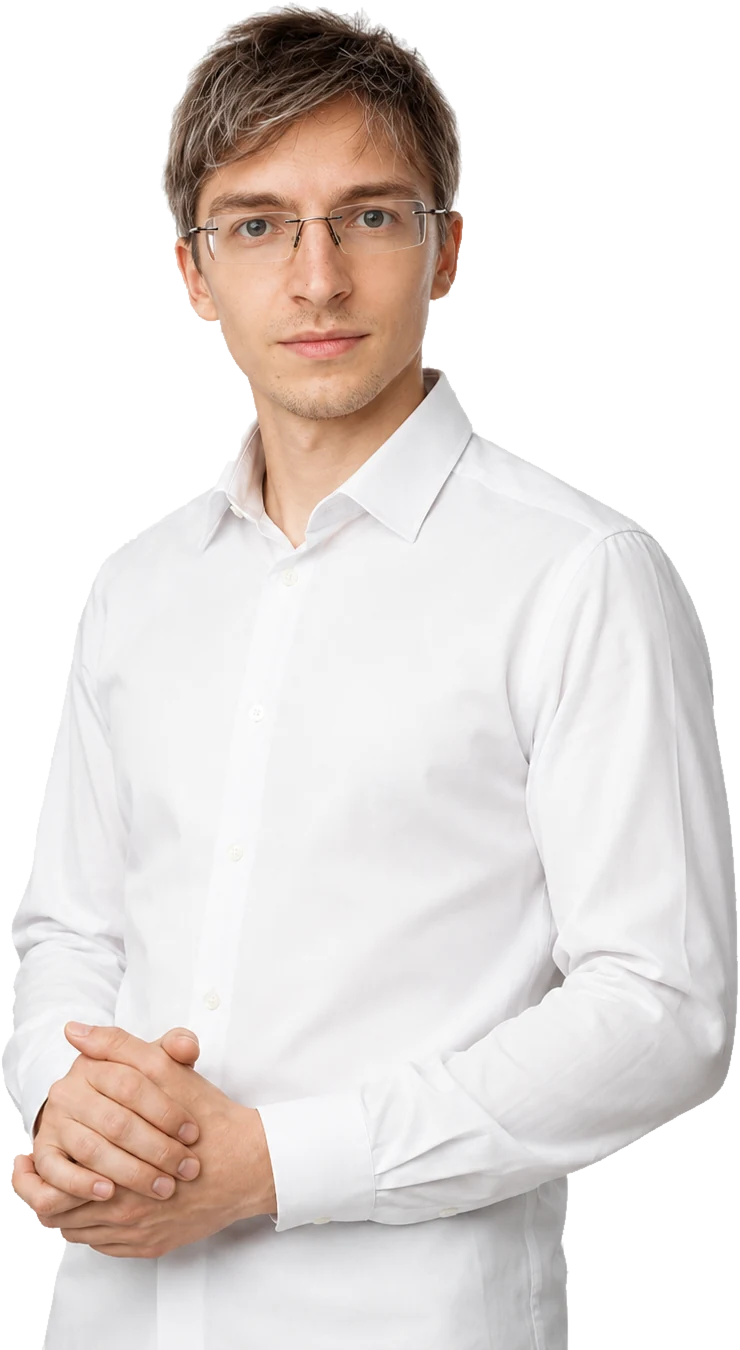
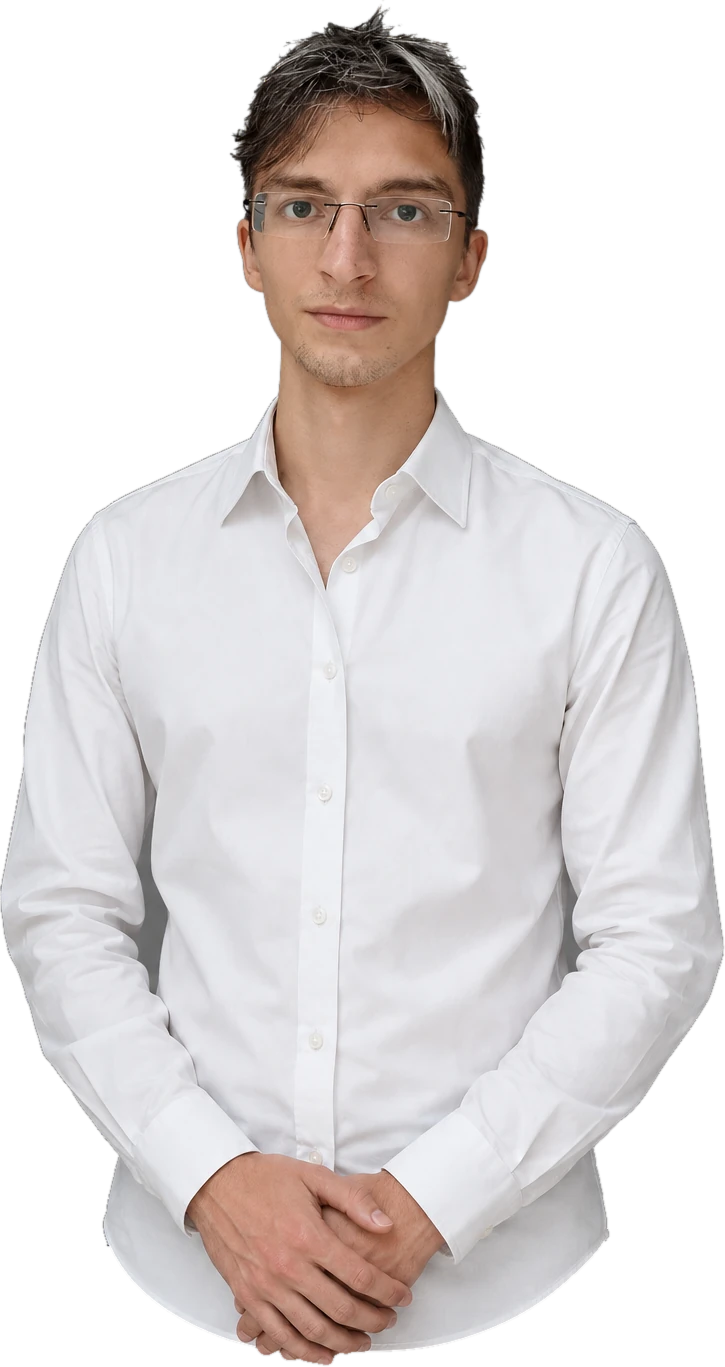
Обновить фото в хиро: новый вырез без фона и без брюк
Фото отражено по горизонтали, серый фон вырезан с полупрозрачностью на
волосах, брюки убраны. Размеры в теге img приведены к новому кадру
725x1367, чтобы страница не дёргалась при загрузке.

diff --git a/result/index.html b/result/index.html
@@ -405,7 +405,7 @@
         <div class="cta-note">ОТВЕЧАЮ САМ · 20 МИНУТ РАЗГОВОРА · БЕЗ ПРЕЗЕНТАЦИЙ И ДАВЛЕНИЯ</div>
       </div>
       <div class="hero-fig">
-        <img src="me.webp" alt="Сергей Фомичёв" width="740" height="1350" fetchpriority="high">
+        <img src="me.webp" alt="Сергей Фомичёв" width="725" height="1367" fetchpriority="high">
       </div>
     </div>
   </section>
